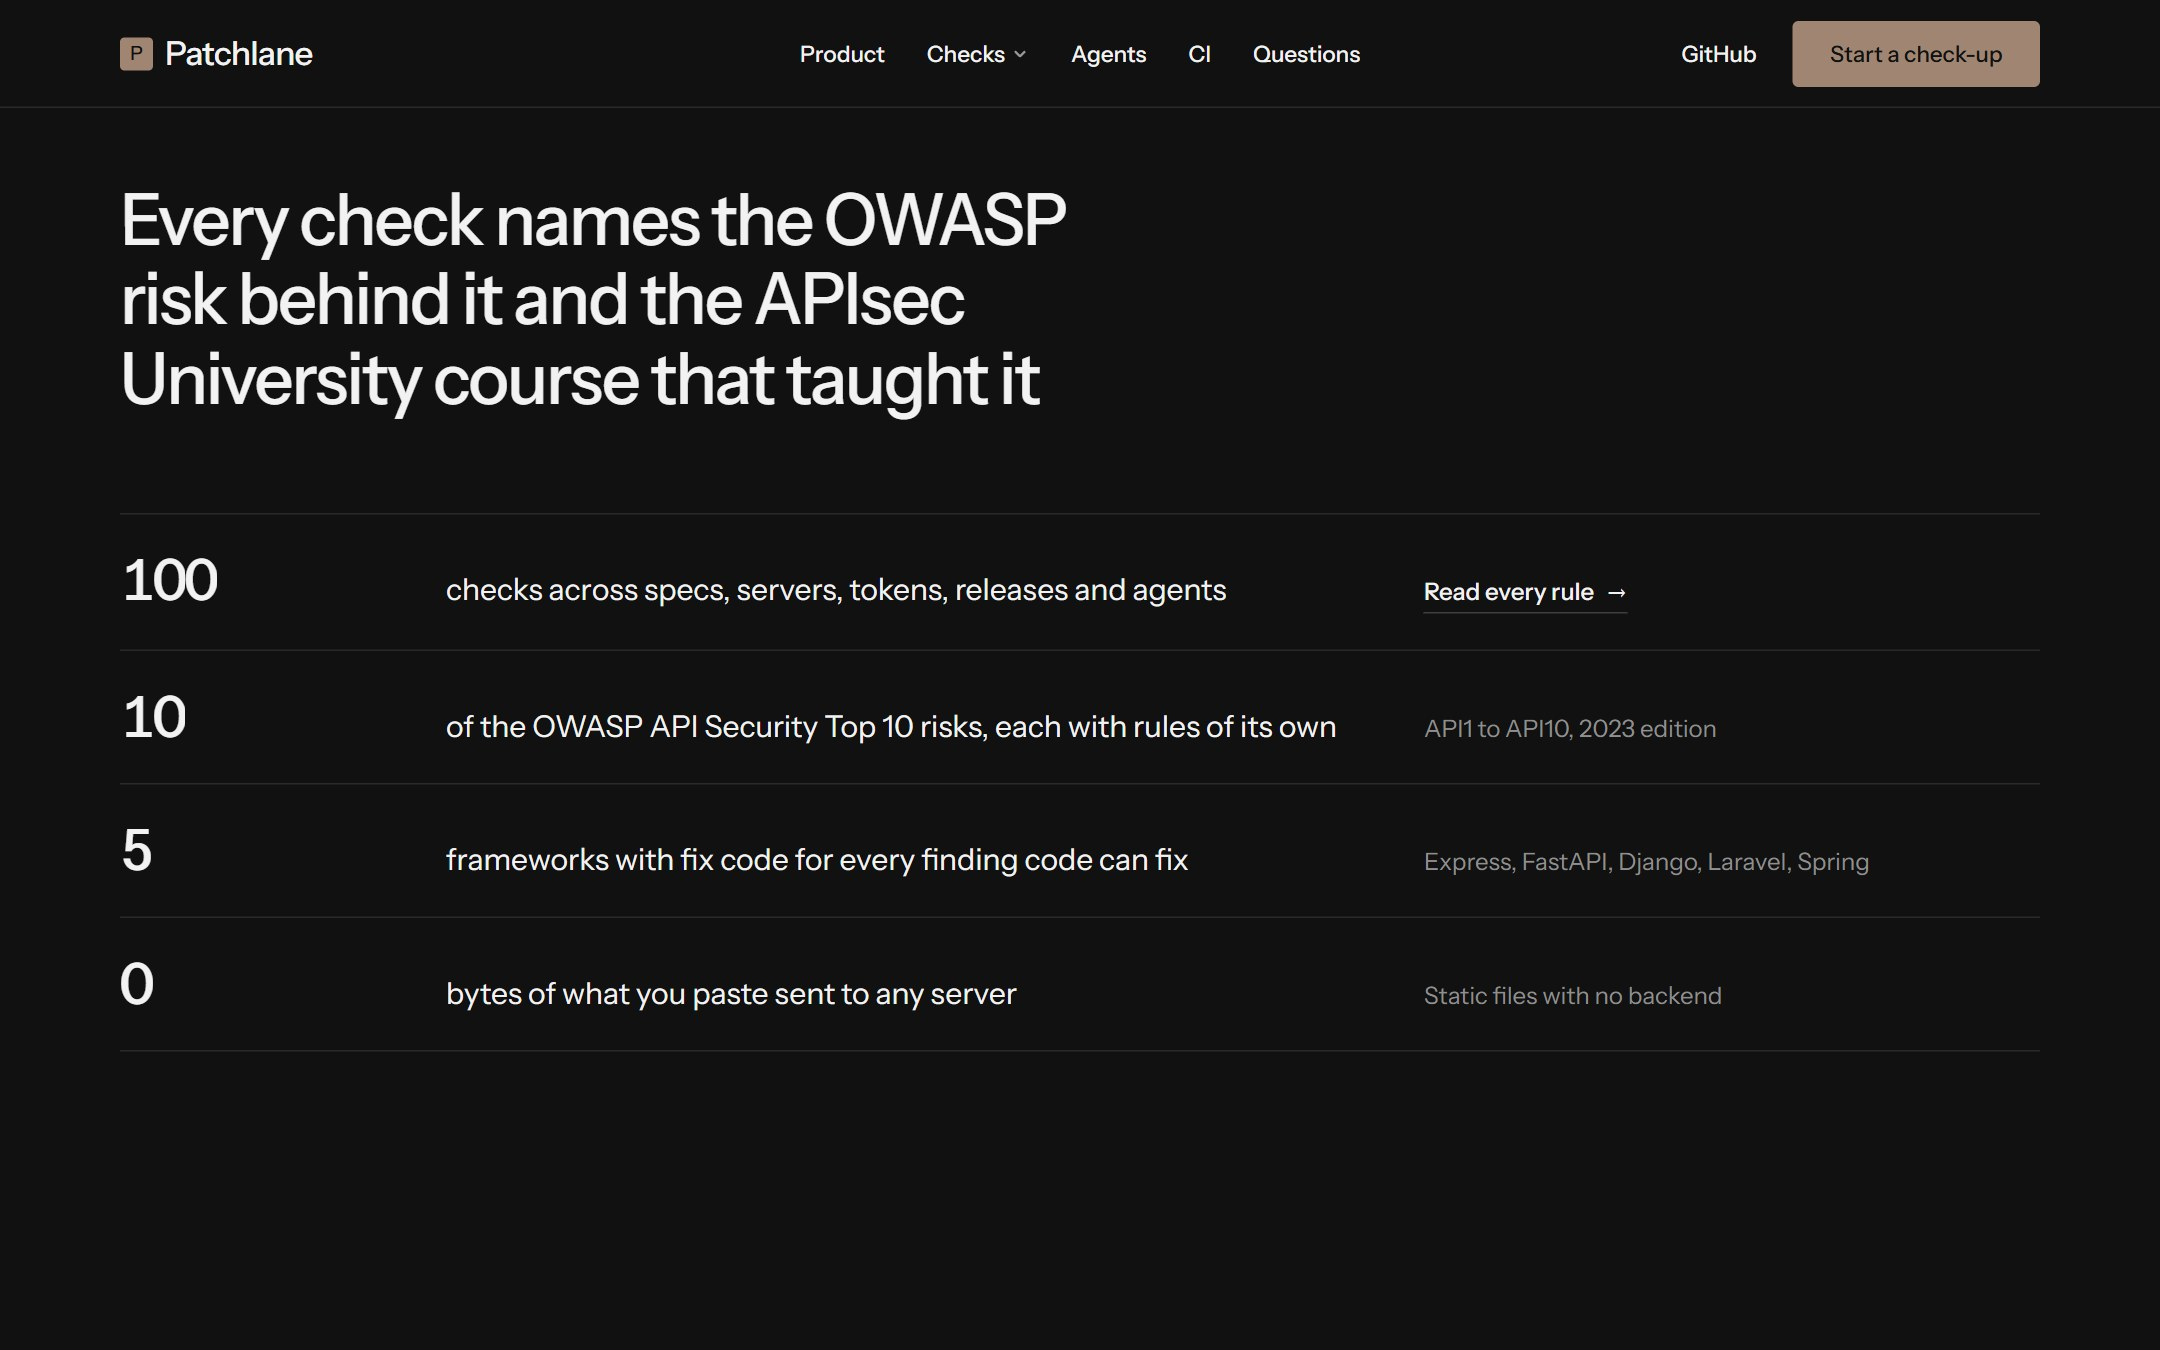
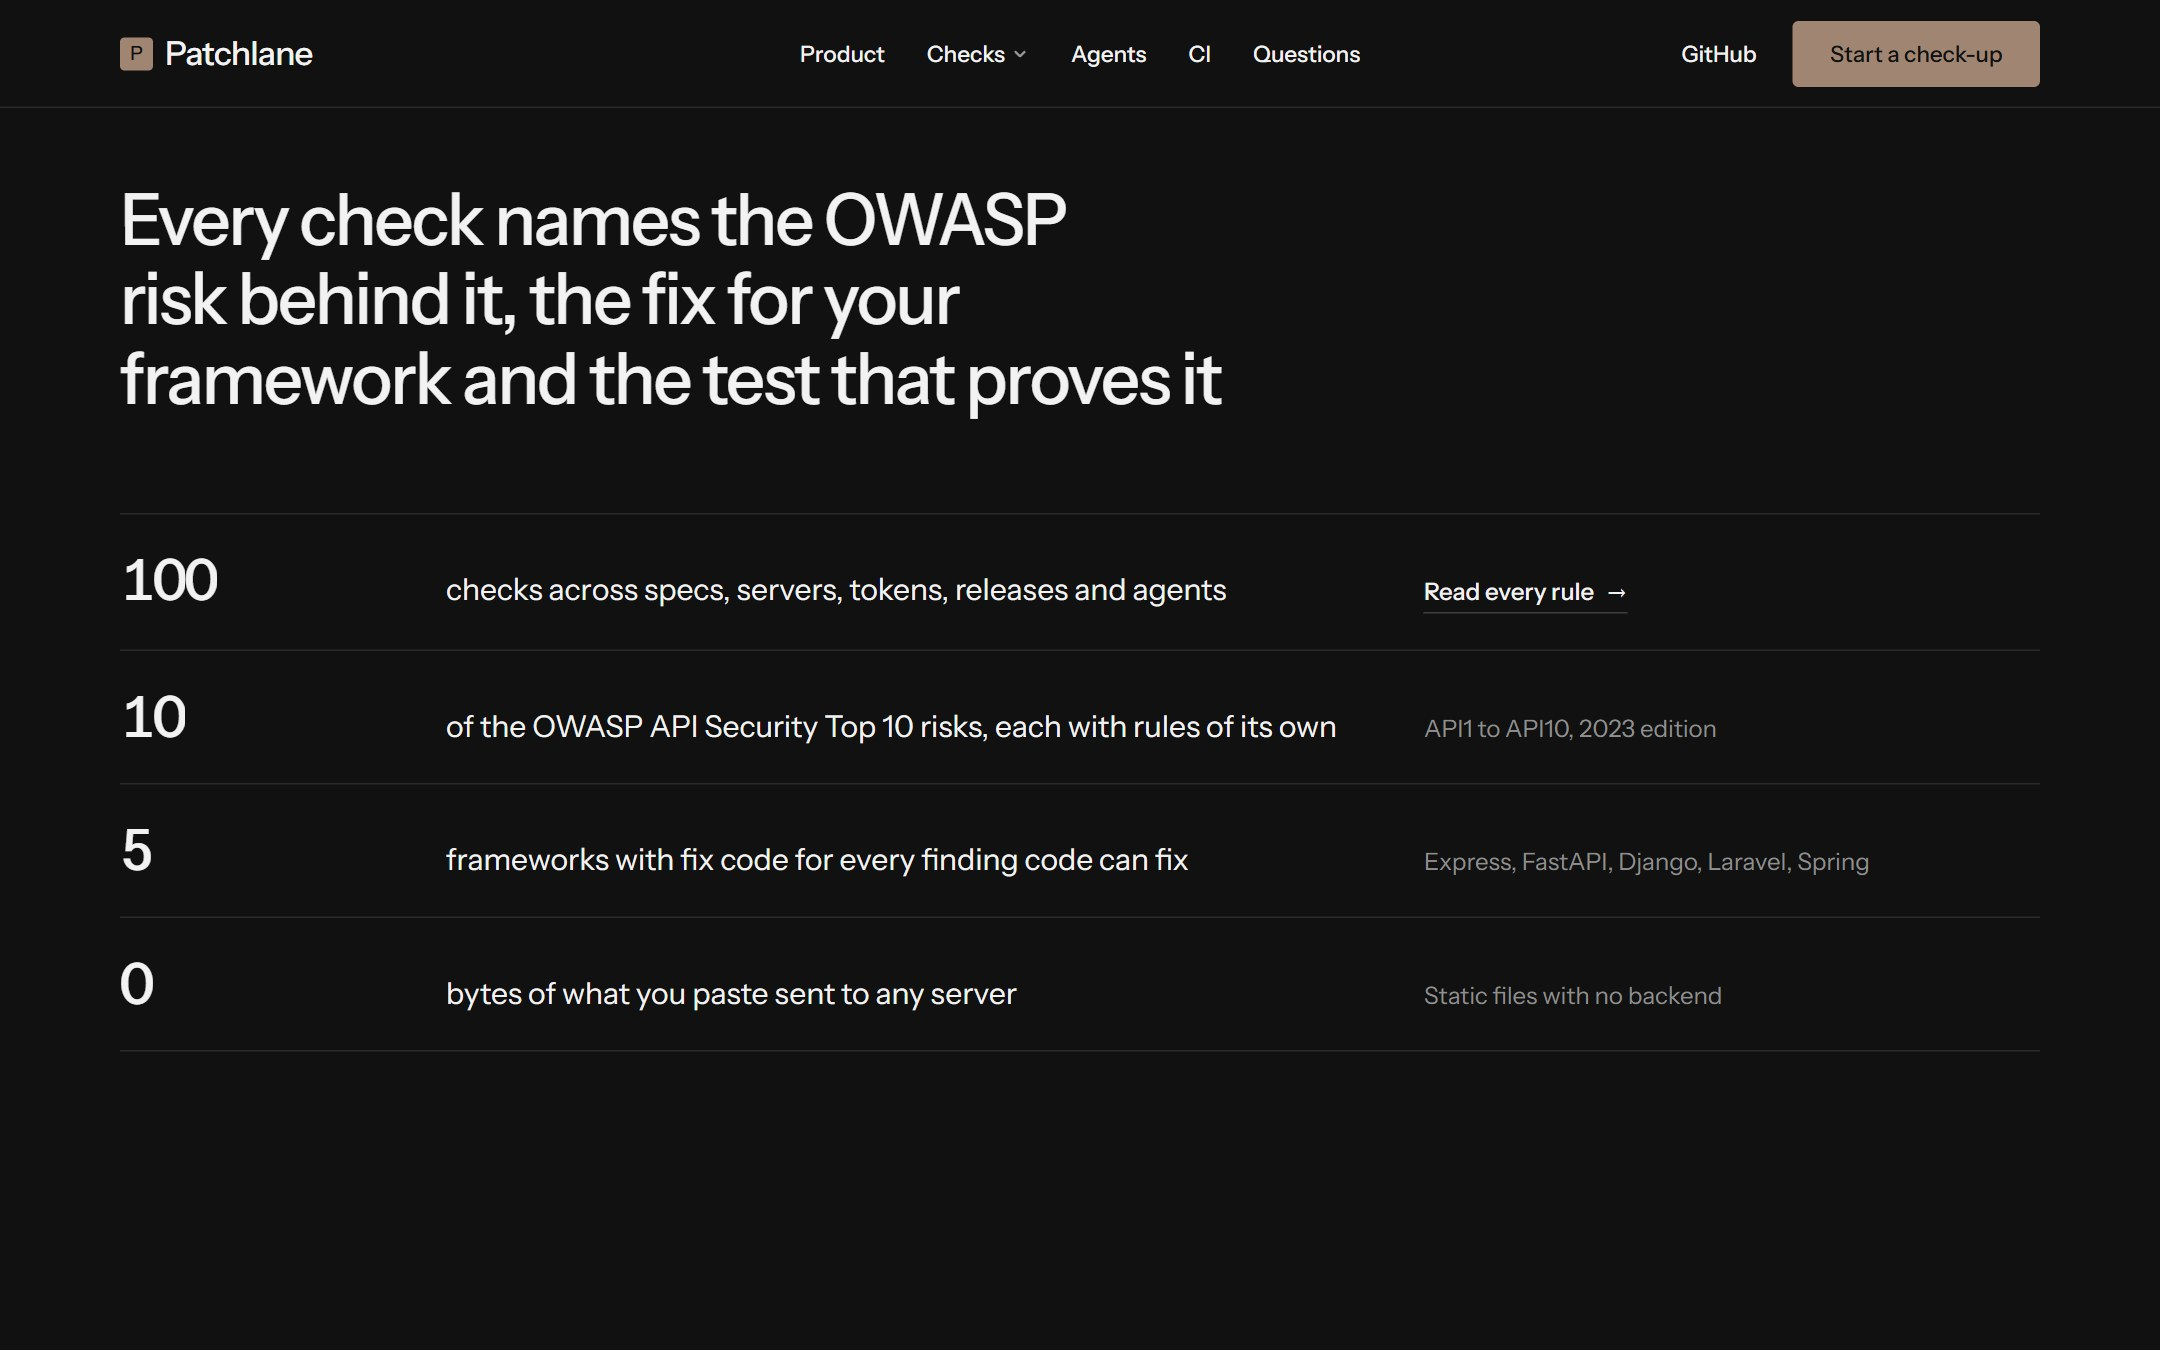
Refresh screenshots from the live site
The old captures predated the copy changes: one still showed the
removed course line. All shots are now taken from patchlane.pages.dev
in a clean browser profile.

Changed region(s): [[0.062, 0.1867, 0.5583, 0.3111]]

diff --git a/README.md b/README.md
@@ -61,7 +61,7 @@ Every finding carries the exact operation, header, claim or tool it came from, t
 ![Five checks](docs/screenshots/03-checks.jpeg)
 ![Agents](docs/screenshots/04-agents.jpeg)
 ![CI](docs/screenshots/05-ci.jpeg)
-![Sources](docs/screenshots/06-sources.jpeg)
+![Every check names its OWASP risk, fix and test](docs/screenshots/06-sources.jpeg)
 ![Questions](docs/screenshots/07-questions.jpeg)
 ![Close and footer](docs/screenshots/08-close.jpeg)
 
